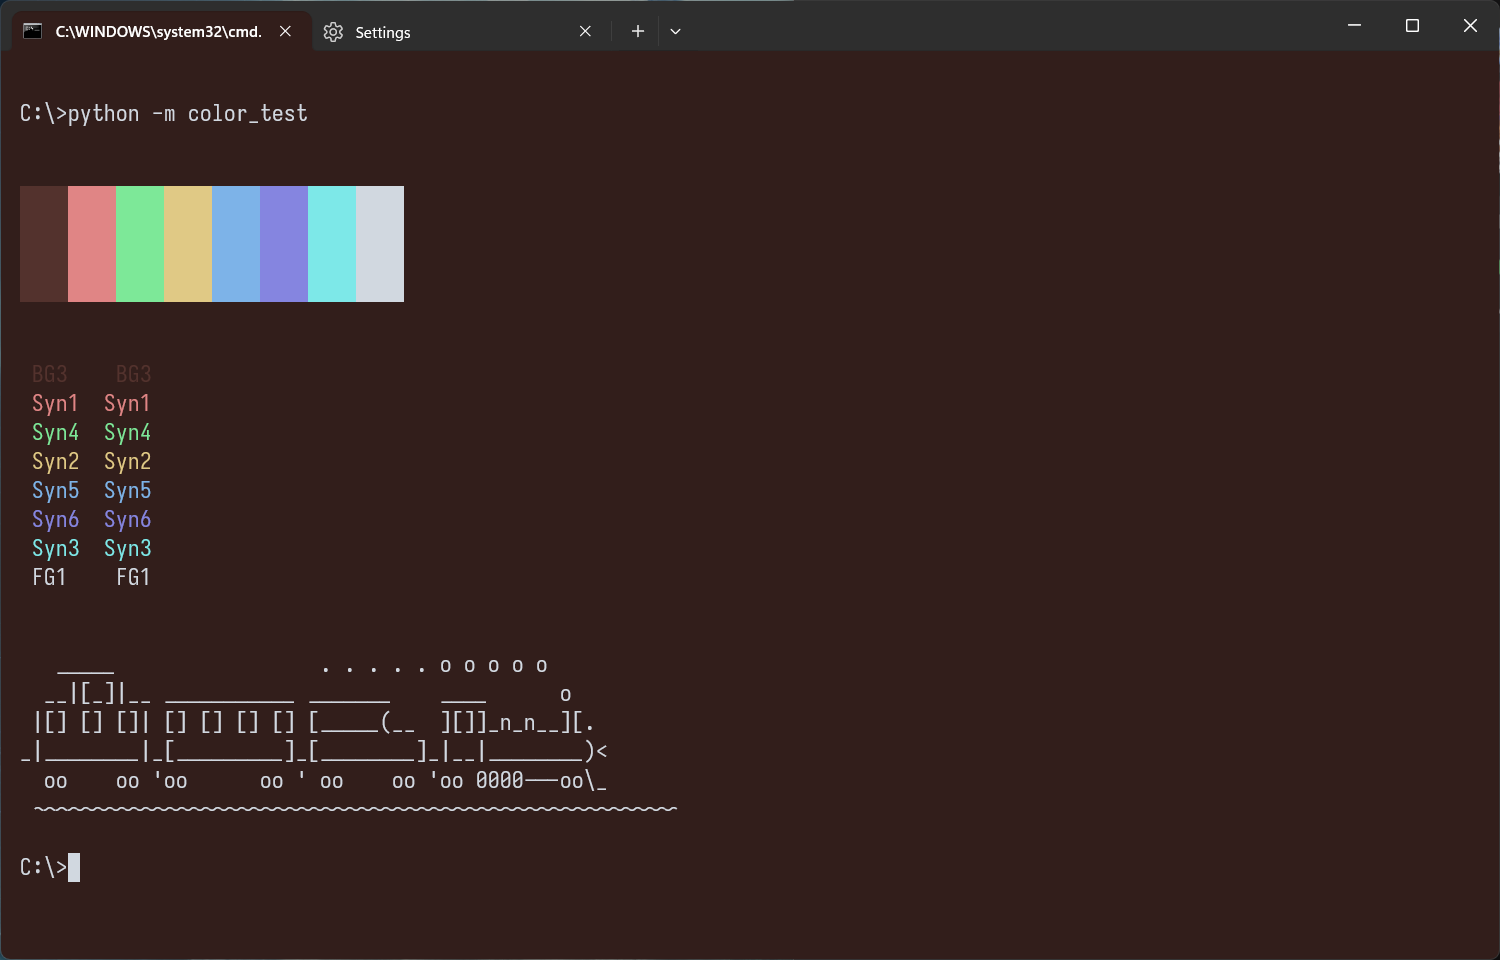
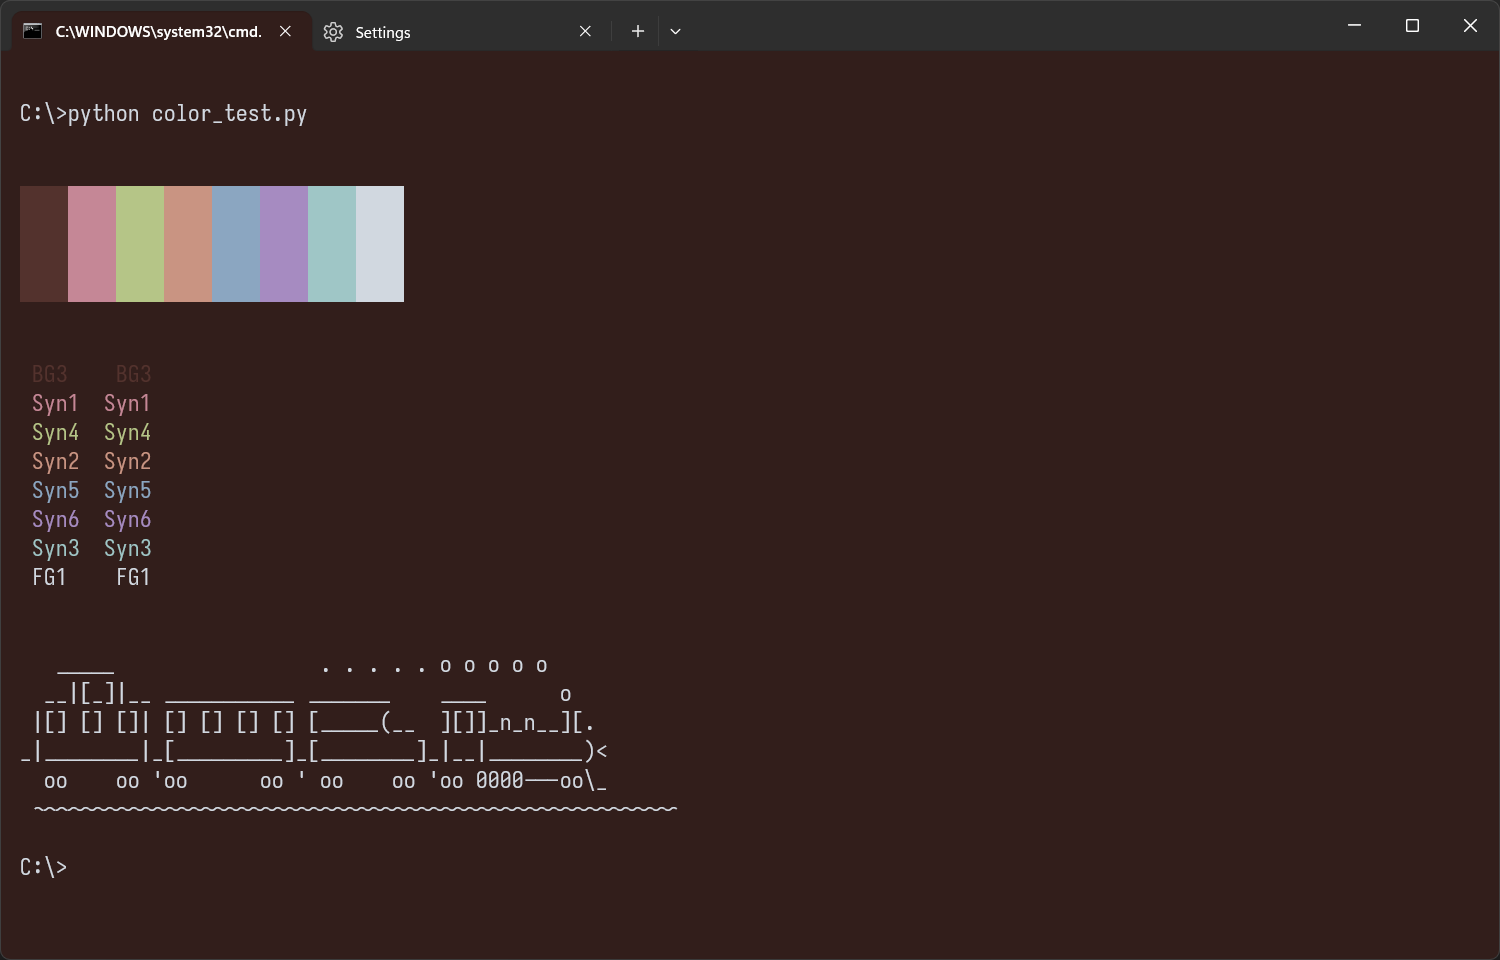
adding admec bone & steel; adjust admec dark theme

diff --git a/scheme_files/other/adeptus-mechanicus-bone.html b/scheme_files/other/adeptus-mechanicus-bone.html
@@ -17,7 +17,7 @@ this template is meant as a reference sheet for your color theme
 	</head>
 	<body>
 		<br>
-		<h3>adeptus-mechanicus-dark</h3>
+		<h3>Adeptus Mechanicus - Bone</h3>
 		<table>
 			<tr>
 				<th>DESC</th>
@@ -26,49 +26,49 @@ this template is meant as a reference sheet for your color theme
 			</tr>
 			<tr>
 				<td>Background - 1st level<br><a>UI: default text bg</a></td>
-				<td>#321e1b</td>
-				<td style="background-color:#321e1b;"></td> 
+				<td>#e8e3ca</td>
+				<td style="background-color:#e8e3ca;"></td>
 			</tr>
 			<tr>
 				<td>Background - 2nd level<br><a>UI: inactive tab or file bg, 2nd level surfaces bg</a></td>
-				<td>#422824</td>
-				<td style="background-color:#422824;"></td>
+				<td>#e0d9b8</td>
+				<td style="background-color:#e0d9b8;"></td>
 			</tr>
 			<tr>
 				<td>Background - 3rd level<br><a>UI: separators, other bg symbols</a></td>
-				<td>#53322d</td>
-				<td style="background-color:#53322d;"></td>
+				<td>#d8d0a6</td>
+				<td style="background-color:#d8d0a6;"></td>
 			</tr>
 			<tr>
 				<td>Foreground - 1st level<br><a>UI: cursor
                 <br>SYNTAX: default text</a></td>
-				<td>#d1d8e0</td>
-				<td style="background-color:#d1d8e0;"></td>
+				<td>#222a2a</td>
+				<td style="background-color:#222a2a;"></td>
 			</tr>
 			<tr>
 				<td>Foreground - 2nd level<br><a>UI: 2nd level surfaces fg, inactive tab or file fg</td>
-				<td>#b6bfc9</td>
-				<td style="background-color:#b6bfc9;"></td>
+				<td>#394646</td>
+				<td style="background-color:#394646;"></td>
 			</tr>
 			<tr>
 				<td>Foreground - 3rd level<br><a>UI: fold, line numbers<br>SYNTAX: comments</a></td>
-				<td>#9da5af</td>
-				<td style="background-color:#9da5af;"></td>
+				<td>#506262</td>
+				<td style="background-color:#506262;"></td>
 			</tr>
 			<tr>
 				<td>Highlight - 1st level<br><a>UI: alternative marks</a></td>
-				<td>#878c92</td>
-				<td style="background-color:#878c92;"></td>
+				<td>#677e7e</td>
+				<td style="background-color:#677e7e;"></td>
 			</tr>	
 			<tr>
 				<td>Highlight - 2nd level<br><a>UI: selection, search marks, fold marks</a></td>
-				<td>#6d7278</td>
-				<td style="background-color:#6d7278;"></td>
+				<td>#819898</td>
+				<td style="background-color:#819898;"></td>
 			</tr>	
 			<tr>
 				<td>Highlight - 3rd level<br><a>UI: current line</a></td>
-				<td>#55595e</td>
-				<td style="background-color:#55595e;"></td>
+				<td>#9dafaf</td>
+				<td style="background-color:#9dafaf;"></td>
 			</tr>
 		</table>
 		<br>
@@ -83,35 +83,35 @@ this template is meant as a reference sheet for your color theme
 			<tr>
 				<td>syntax 1<br><a>UI: change history modified, alert, error
                 <br>SYNTAX: macro, methods, functions, symbols (question mark, shebang, etc.)<br>TERMINAL: red</a></td>
-				<td>#c58796</td>
-				<td style="background-color:#c58796;"></td> 
+				<td>#9b4b5f</td>
+				<td style="background-color:#9b4b5f;"></td>
 			</tr>
 			<tr>
 				<td>syntax 2<br><a>UI: change history revert origin, change history revert modified, warnings
                 <br>SYNTAX: strings, char, regex, verbatim<br>TERMINAL: yellow</a></td>
-				<td>#c99482</td>
-				<td style="background-color:#c99482;"></td> 
+				<td>#a15c45</td>
+				<td style="background-color:#a15c45;"></td>
 			</tr>
 			<tr>
 				<td>syntax 3<br><a>SYNTAX: opertors, variables, identifiers<br>TERMINAL: cyan</a></td>
-				<td>#9fc6c6</td>
-				<td style="background-color:#9fc6c6;"></td>
+				<td>#568f8f</td>
+				<td style="background-color:#568f8f;"></td>
 			</tr>
 			<tr>
 				<td>syntax 4<br><a>UI: change history saved
                 <br>SYNTAX: conditionals, keywords, tags, commands, instructions<br>TERMINAL: green</a></td>
-				<td>#b5c587</td>
-				<td style="background-color:#b5c587;"></td> 
+				<td>#879b4b</td>
+				<td style="background-color:#879b4b;"></td>
 			</tr>
 			<tr>
 				<td>syntax 5<br><a>SYNTAX: keys, types, class, groups, sections, preprocessor<br>TERMINAL: blue</a></td>
-				<td>#8ba6c1</td>
-				<td style="background-color:#8ba6c1;"></td> 
+				<td>#507395</td>
+				<td style="background-color:#507395;"></td>
 			</tr>
 			<tr>
 				<td>syntax 6<br><a>SYNTAX: qualifier, numbers, booleans, attributes<br>TERMINAL: magenta (purple)</a></td>
-				<td>#a68bc1</td>
-				<td style="background-color:#a68bc1;"></td> 	
+				<td>#73568f</td>
+				<td style="background-color:#73568f;"></td>
 			</tr>
 		</table>
 		<br>

diff --git a/scheme_files/other/adeptus-mechanicus-steel.html b/scheme_files/other/adeptus-mechanicus-steel.html
@@ -17,7 +17,7 @@ this template is meant as a reference sheet for your color theme
 	</head>
 	<body>
 		<br>
-		<h3>adeptus-mechanicus-dark</h3>
+		<h3>Adeptus Mechanicus - Steel</h3>
 		<table>
 			<tr>
 				<th>DESC</th>
@@ -26,49 +26,49 @@ this template is meant as a reference sheet for your color theme
 			</tr>
 			<tr>
 				<td>Background - 1st level<br><a>UI: default text bg</a></td>
-				<td>#321e1b</td>
-				<td style="background-color:#321e1b;"></td> 
+				<td>#323e3e</td>
+				<td style="background-color:#323e3e;"></td>
 			</tr>
 			<tr>
 				<td>Background - 2nd level<br><a>UI: inactive tab or file bg, 2nd level surfaces bg</a></td>
-				<td>#422824</td>
-				<td style="background-color:#422824;"></td>
+				<td>#394646</td>
+				<td style="background-color:#394646;"></td>
 			</tr>
 			<tr>
 				<td>Background - 3rd level<br><a>UI: separators, other bg symbols</a></td>
-				<td>#53322d</td>
-				<td style="background-color:#53322d;"></td>
+				<td>#3e4c4c</td>
+				<td style="background-color:#3e4c4c;"></td>
 			</tr>
 			<tr>
 				<td>Foreground - 1st level<br><a>UI: cursor
                 <br>SYNTAX: default text</a></td>
-				<td>#d1d8e0</td>
-				<td style="background-color:#d1d8e0;"></td>
+				<td>#e3ddbf</td>
+				<td style="background-color:#e3ddbf;"></td>
 			</tr>
 			<tr>
 				<td>Foreground - 2nd level<br><a>UI: 2nd level surfaces fg, inactive tab or file fg</td>
-				<td>#b6bfc9</td>
-				<td style="background-color:#b6bfc9;"></td>
+				<td>#d4cb9b</td>
+				<td style="background-color:#d4cb9b;"></td>
 			</tr>
 			<tr>
 				<td>Foreground - 3rd level<br><a>UI: fold, line numbers<br>SYNTAX: comments</a></td>
-				<td>#9da5af</td>
-				<td style="background-color:#9da5af;"></td>
+				<td>#c6c1a9</td>
+				<td style="background-color:#c6c1a9;"></td>
 			</tr>
 			<tr>
 				<td>Highlight - 1st level<br><a>UI: alternative marks</a></td>
-				<td>#878c92</td>
-				<td style="background-color:#878c92;"></td>
+				<td>#b2ab8a</td>
+				<td style="background-color:#b2ab8a;"></td>
 			</tr>	
 			<tr>
 				<td>Highlight - 2nd level<br><a>UI: selection, search marks, fold marks</a></td>
-				<td>#6d7278</td>
-				<td style="background-color:#6d7278;"></td>
+				<td>#9d956c</td>
+				<td style="background-color:#9d956c;"></td>
 			</tr>	
 			<tr>
 				<td>Highlight - 3rd level<br><a>UI: current line</a></td>
-				<td>#55595e</td>
-				<td style="background-color:#55595e;"></td>
+				<td>#817a55</td>
+				<td style="background-color:#817a55;"></td>
 			</tr>
 		</table>
 		<br>
